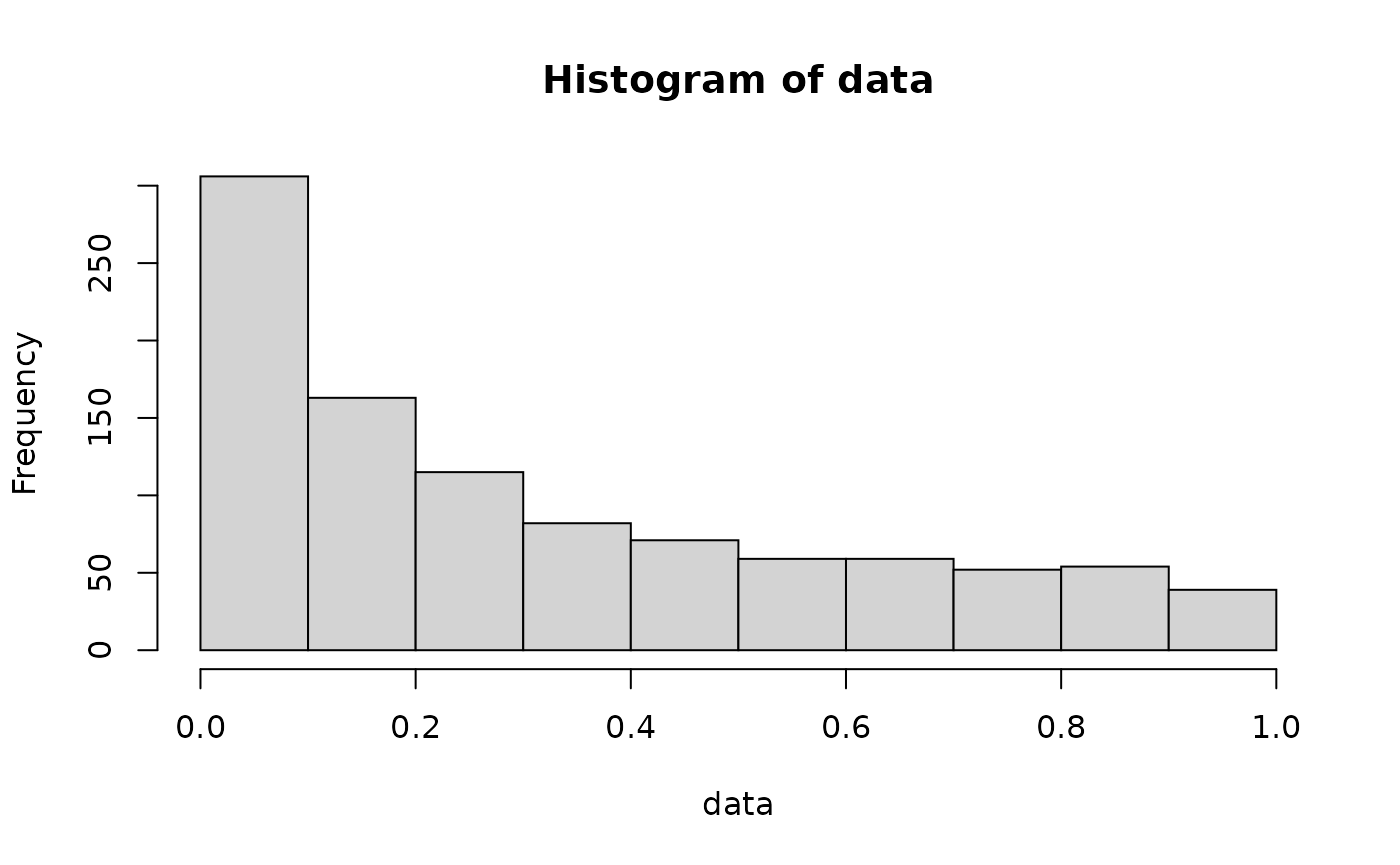
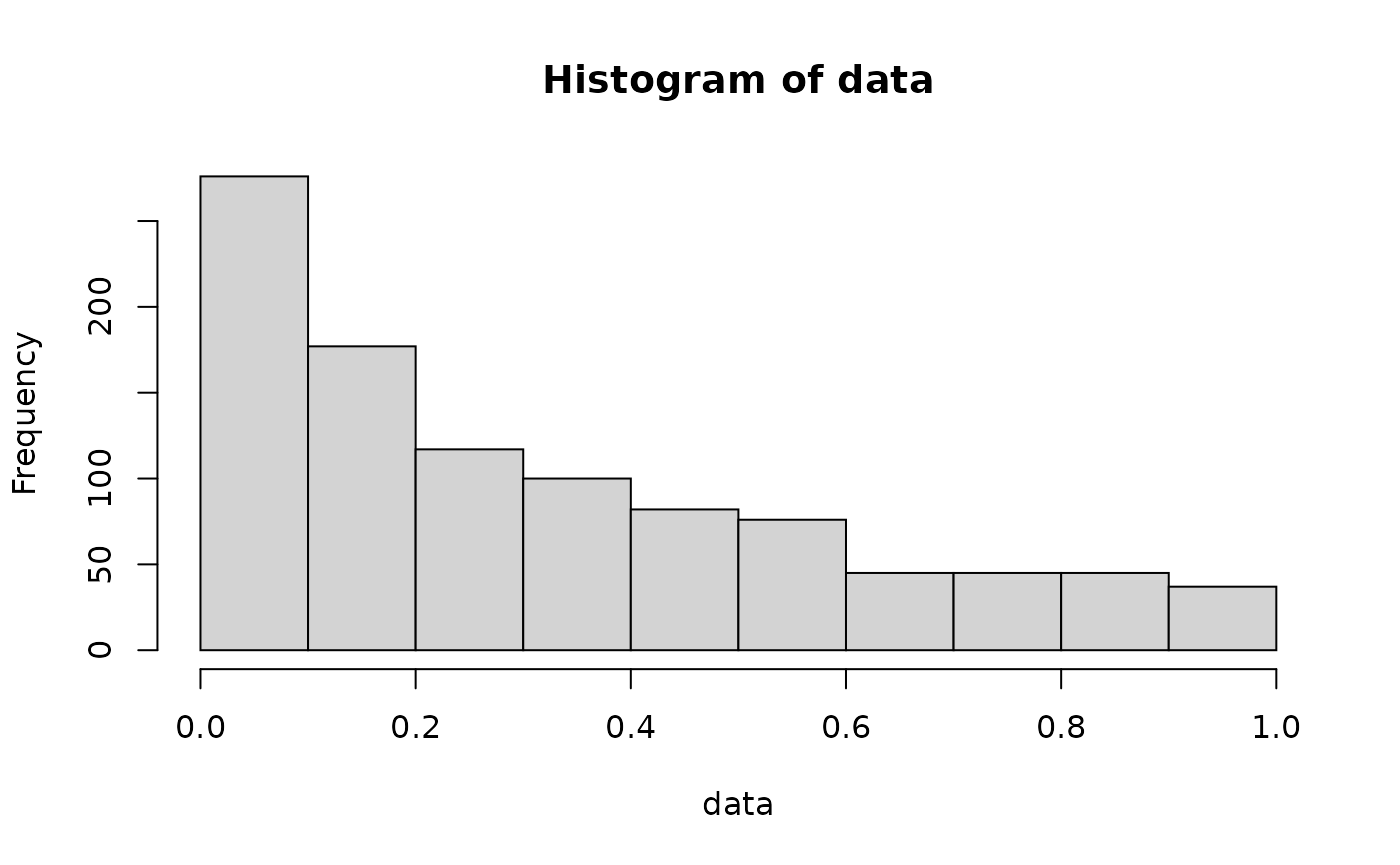
Built site for bradfordr: 0.0.0.9000@4b2de29

diff --git a/index.html b/index.html
@@ -89,7 +89,7 @@
 <div class="page-header"><h1 class="hasAnchor">
 <a href="#bradfordr-" class="anchor"></a>bradfordr <img src="reference/figures/logo.png" align="right" height="138">
 </h1></div>
-<!-- badges: end -->
+
 <p>The goal of bradfordr is to implement probability functions from the Standardized Bradford Distribution in the same way other distributions are implemented in the <code>{stats}</code> package. It’s definition and functionality were taken from <a href="https://docs.scipy.org/doc/scipy/reference/generated/scipy.stats.bradford.html">SciPy</a>.</p>
 <div id="definition-of-the-standardized-bradford-distribution" class="section level2">
 <h2 class="hasAnchor">
@@ -120,8 +120,8 @@
 <code class="sourceCode R"><span class="kw"><a href="https://rdrr.io/r/base/library.html">library</a></span><span class="op">(</span><span class="va"><a href="https://github.com/victordogo/bradfordr">bradfordr</a></span><span class="op">)</span>
 
 <span class="fu"><a href="reference/rbradford.html">rbradford</a></span><span class="op">(</span>n<span class="op">=</span><span class="fl">10</span><span class="op">)</span>
-<span class="co">#&gt;  [1] 0.01917047 0.43975562 0.25034811 0.90003604 0.24743379 0.44589014</span>
-<span class="co">#&gt;  [7] 0.35121257 0.62463851 0.48621821 0.45003653</span></code></pre></div>
+<span class="co">#&gt;  [1] 0.60849746 0.89654655 0.96713865 0.03526403 0.03552219 0.22031577</span>
+<span class="co">#&gt;  [7] 0.44082245 0.22945828 0.08024803 0.81124538</span></code></pre></div>
 <p>If the value of c is less or equal than 0, the function returns an error (this is true to all functions in this package).</p>
 </div>
 <div id="pbradford" class="section level3">
@@ -202,7 +202,14 @@
 </ul>
 </div>
 
-  </div>
+  <div class="dev-status">
+<h2>Dev status</h2>
+<ul class="list-unstyled">
+<li><a href="https://github.com/victordogo/bradfordr/actions"><img src="https://github.com/victordogo/bradfordr/workflows/pkgdown/badge.svg" alt="pkgdown"></a></li>
+<li><a href="https://github.com/victordogo/bradfordr/actions"><img src="https://github.com/victordogo/bradfordr/workflows/check-release/badge.svg" alt="check-release"></a></li>
+</ul>
+</div>
+</div>
 </div>
 
 

diff --git a/articles/rng-bradford-dist.html b/articles/rng-bradford-dist.html
@@ -133,7 +133,7 @@ x = F^{-1}(u;c) = \frac{(1+c)^u - 1}{c}
 <code class="sourceCode R"><span class="va">data</span> <span class="op">&lt;-</span> <span class="fu"><a href="../reference/rbradford.html">rbradford</a></span><span class="op">(</span><span class="fl">1000</span>, c<span class="op">=</span><span class="fl">10</span><span class="op">)</span>
 
 <span class="fu"><a href="https://rdrr.io/r/utils/head.html">head</a></span><span class="op">(</span><span class="va">data</span><span class="op">)</span>
-<span class="co">#&gt; [1] 0.105676628 0.588875549 0.098086822 0.359331321 0.002844008 0.891148520</span></code></pre></div>
+<span class="co">#&gt; [1] 0.45387202 0.51819626 0.06921732 0.44055909 0.03777027 0.13190694</span></code></pre></div>
 <p>We can easily plot this data to understand how it behaves:</p>
 <div class="sourceCode" id="cb3"><pre class="downlit sourceCode r">
 <code class="sourceCode R"><span class="fu"><a href="https://rdrr.io/r/graphics/hist.html">hist</a></span><span class="op">(</span><span class="va">data</span><span class="op">)</span></code></pre></div>
